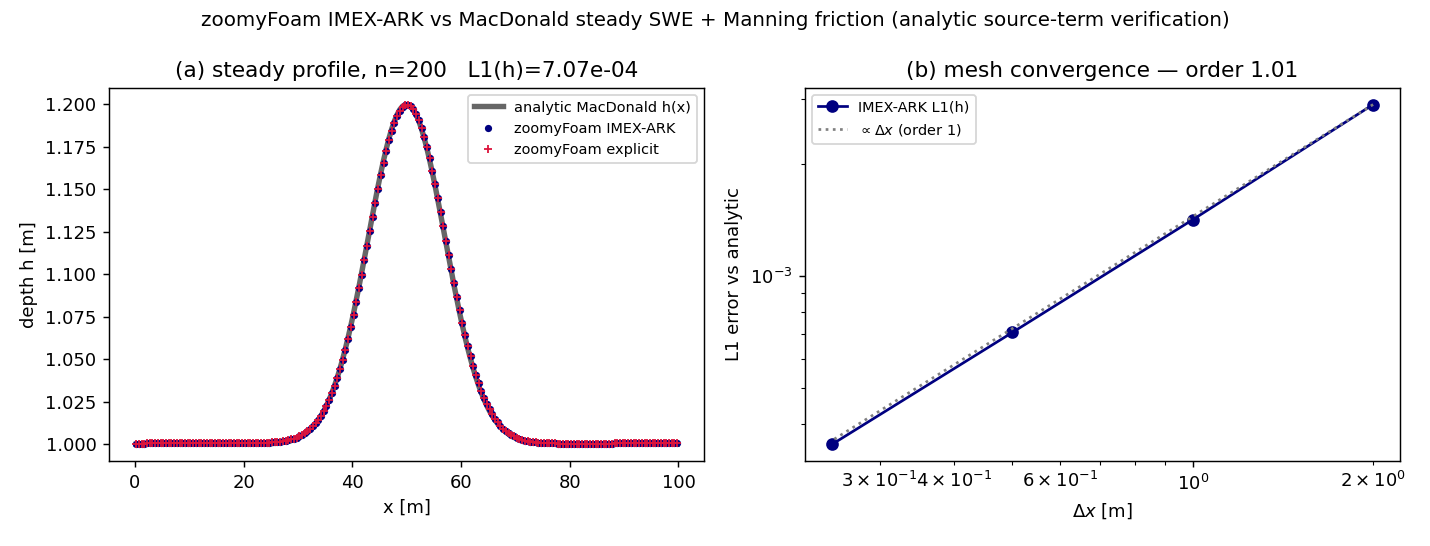
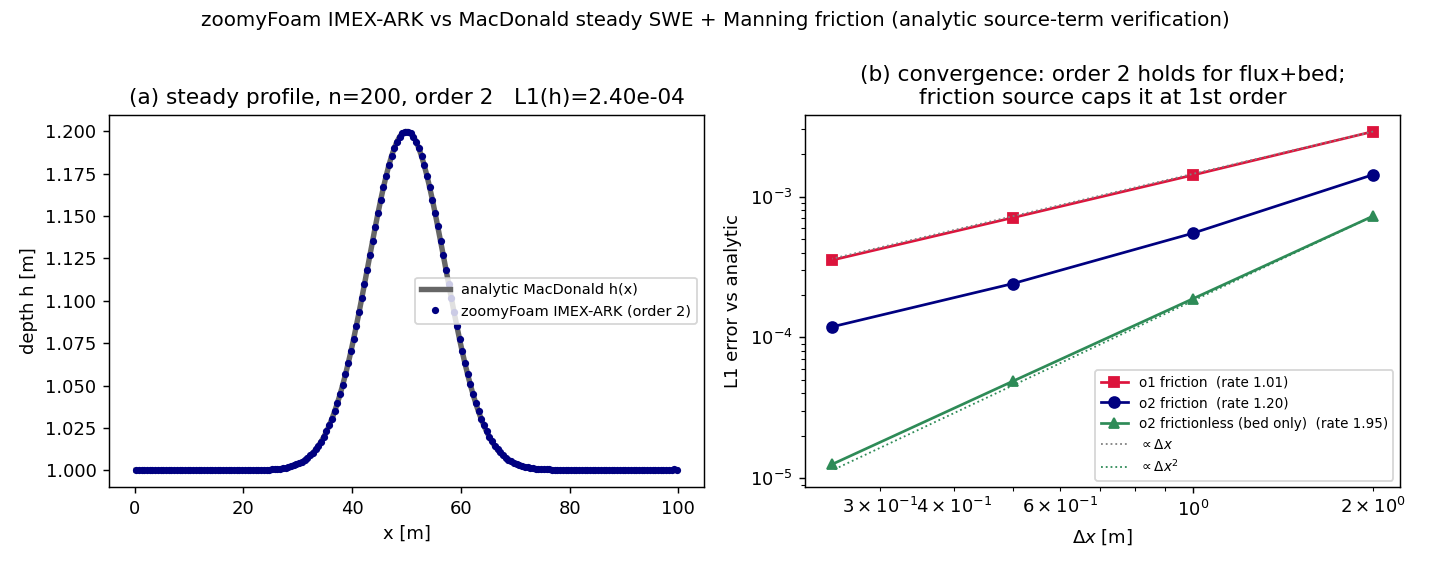
macdonald: order-1 vs order-2 convergence (friction caps order 2)
Sweep reconstruction order 1 and 2 against the analytic MacDonald steady
solution, plus an order-2 frictionless control to localise the order cap:

  o1 + friction              : L1 rate 1.01
  o2 + friction              : L1 rate 1.20
  o2 frictionless (bed only) : L1 rate 1.95

So the order-2 scheme IS genuinely 2nd-order for the hyperbolic flux + bed-
slope NCP (1.95); the Manning friction SOURCE caps the moving frictional
equilibrium at ~1st order — it is evaluated pointwise at cell centres and is
not well-balanced for that equilibrium (a known SWE-with-friction subtlety,
independent of the IMEX time integration and of explicit-vs-imex). Full 2nd
order with friction needs a well-balanced/reconstructed source quadrature
(numerics.H follow-up). Figure: tests/imex_unit/figures/macdonald_friction.png.

diff --git a/tools/macdonald_friction_verification.py b/tools/macdonald_friction_verification.py
@@ -69,7 +69,7 @@ def _field(case, name, vals):
         "  frontAndBack { type empty; } topAndBottom { type empty; }\n}\n")
 
 
-def build_case(case, n_cells, scheme):
+def build_case(case, n_cells, scheme, order=1, n_manning=N_MANNING):
     if case.exists():
         shutil.rmtree(case)
     (case / "0").mkdir(parents=True); (case / "system").mkdir(); (case / "constant").mkdir()
@@ -97,13 +97,13 @@ mergePatchPairs ();
 application zoomyFoam;
 startFrom startTime; startTime 0; stopAt endTime; endTime {T_END}; deltaT 0.01;
 writeControl adjustableRunTime; writeInterval {T_END}; purgeWrite 0;
-maxCo 0.4; reconstructionOrder 1; timeScheme {scheme}; imexTableau ars232;
+maxCo 0.4; reconstructionOrder {order}; timeScheme {scheme}; imexTableau ars232;
 imexMaxIter 20; imexTol 1e-12;
-modelParameters {{ g {G}; n {N_MANNING}; }}
+modelParameters {{ g {G}; n {n_manning}; }}
 """)
     x_nodes = np.linspace(0, L, n_cells + 1)
     xc = 0.5 * (x_nodes[1:] + x_nodes[:-1])
-    b, h = analytic(xc, Q_IN, N_MANNING)
+    b, h = analytic(xc, Q_IN, n_manning)
     _field(case, "Q0", b); _field(case, "Q1", h); _field(case, "Q2", np.full_like(xc, Q_IN))
     return xc, h
 
@@ -123,13 +123,22 @@ def run(case):
     return _read(last / "Q1")
 
 
-def solve_at(work, n_cells, scheme, xc_ref=None):
-    case = work / f"mac_{scheme}_{n_cells}"
-    xc, h_an = build_case(case, n_cells, scheme)
+def solve_at(work, n_cells, scheme, order=1, n_manning=N_MANNING):
+    case = work / f"mac_{scheme}_o{order}_n{n_manning:g}_{n_cells}"
+    xc, h_an = build_case(case, n_cells, scheme, order=order, n_manning=n_manning)
     h = run(case)
     if np.isscalar(h):
         h = np.full_like(xc, h)
     return xc, h_an, h
+
+
+def converge(work, scheme, order, n_manning, grids):
+    dxs, l1s = [], []
+    for n in grids:
+        xc, h_an, h = solve_at(work, n, scheme, order=order, n_manning=n_manning)
+        dxs.append(L / n); l1s.append(float(np.mean(np.abs(h - h_an))))
+    rate = float(np.polyfit(np.log(dxs), np.log(l1s), 1)[0])
+    return dxs, l1s, rate
 
 
 def main():
@@ -142,32 +151,43 @@ def main():
 
     work = Path(tempfile.mkdtemp(prefix="macdonald_"))
     grids = [50, 100, 200, 400]
-    dxs, l1s = [], []
+    nofric = 1e-8                       # ~frictionless: isolate the bed-slope part
     print(f"MacDonald SWE+Manning: q={Q_IN}, n={N_MANNING}, L={L}")
-    for n in grids:
-        xc, h_an, h = solve_at(work, n, "imex")
-        l1 = float(np.mean(np.abs(h - h_an)))
-        dxs.append(L / n); l1s.append(l1)
-        print(f"  imex n={n:4d}: L1(h)={l1:.3e}")
-    rate = float(np.polyfit(np.log(dxs), np.log(l1s), 1)[0])
-    print(f"  observed L1 order = {rate:.2f}")
 
-    xc, h_an, h_imex = solve_at(work, 200, "imex")
-    _, _, h_exp = solve_at(work, 200, "explicit")
+    # Three convergence series (all IMEX-ARK time scheme):
+    #   o1 + friction, o2 + friction, o2 frictionless (bed-slope only).
+    series = {
+        "o1 friction":   ("imex", 1, N_MANNING, "crimson", "s"),
+        "o2 friction":   ("imex", 2, N_MANNING, "navy",    "o"),
+        "o2 frictionless (bed only)": ("imex", 2, nofric,  "seagreen", "^"),
+    }
+    conv = {}
+    for label, (scheme, order, nman, col, mk) in series.items():
+        dxs, l1s, rate = converge(work, scheme, order, nman, grids)
+        conv[label] = (dxs, l1s, rate, col, mk)
+        print(f"  {label}: rate={rate:.2f}  L1={[f'{e:.2e}' for e in l1s]}")
+
+    # Profile at the medium grid, order 2 with friction.
+    xc, h_an, h_o2 = solve_at(work, 200, "imex", order=2, n_manning=N_MANNING)
 
     FIG.parent.mkdir(parents=True, exist_ok=True)
-    fig, (axL, axR) = plt.subplots(1, 2, figsize=(11, 4.2))
+    fig, (axL, axR) = plt.subplots(1, 2, figsize=(11, 4.4))
     axL.plot(xc, h_an, "-", color="0.4", lw=3, label="analytic MacDonald h(x)")
-    axL.plot(xc, h_imex, "o", color="navy", ms=3, label="zoomyFoam IMEX-ARK")
-    axL.plot(xc, h_exp, "+", color="crimson", ms=4, label="zoomyFoam explicit")
+    axL.plot(xc, h_o2, "o", color="navy", ms=3, label="zoomyFoam IMEX-ARK (order 2)")
     axL.set_xlabel("x [m]"); axL.set_ylabel("depth h [m]")
-    axL.set_title(f"(a) steady profile, n=200   L1(h)={np.mean(abs(h_imex-h_an)):.2e}")
+    axL.set_title(f"(a) steady profile, n=200, order 2   L1(h)={np.mean(abs(h_o2-h_an)):.2e}")
     axL.legend(fontsize=8)
-    axR.loglog(dxs, l1s, "o-", color="navy", label="IMEX-ARK L1(h)")
-    axR.loglog(dxs, [l1s[0] * (d / dxs[0]) for d in dxs], ":", color="0.5",
-               label=r"$\propto \Delta x$ (order 1)")
+    for label, (dxs, l1s, rate, col, mk) in conv.items():
+        axR.loglog(dxs, l1s, mk + "-", color=col, label=f"{label}  (rate {rate:.2f})")
+    d = conv["o1 friction"][0]
+    axR.loglog(d, [conv["o1 friction"][1][0]*(x/d[0]) for x in d], ":", color="0.5", lw=1,
+               label=r"$\propto \Delta x$")
+    axR.loglog(d, [conv["o2 frictionless (bed only)"][1][0]*(x/d[0])**2 for x in d], ":",
+               color="seagreen", lw=1, label=r"$\propto \Delta x^2$")
     axR.set_xlabel(r"$\Delta x$ [m]"); axR.set_ylabel("L1 error vs analytic")
-    axR.set_title(f"(b) mesh convergence — order {rate:.2f}"); axR.legend(fontsize=8)
+    axR.set_title("(b) convergence: order 2 holds for flux+bed;\n"
+                  "friction source caps it at 1st order")
+    axR.legend(fontsize=7.5)
     fig.suptitle("zoomyFoam IMEX-ARK vs MacDonald steady SWE + Manning friction "
                  "(analytic source-term verification)", fontsize=11)
     fig.tight_layout()